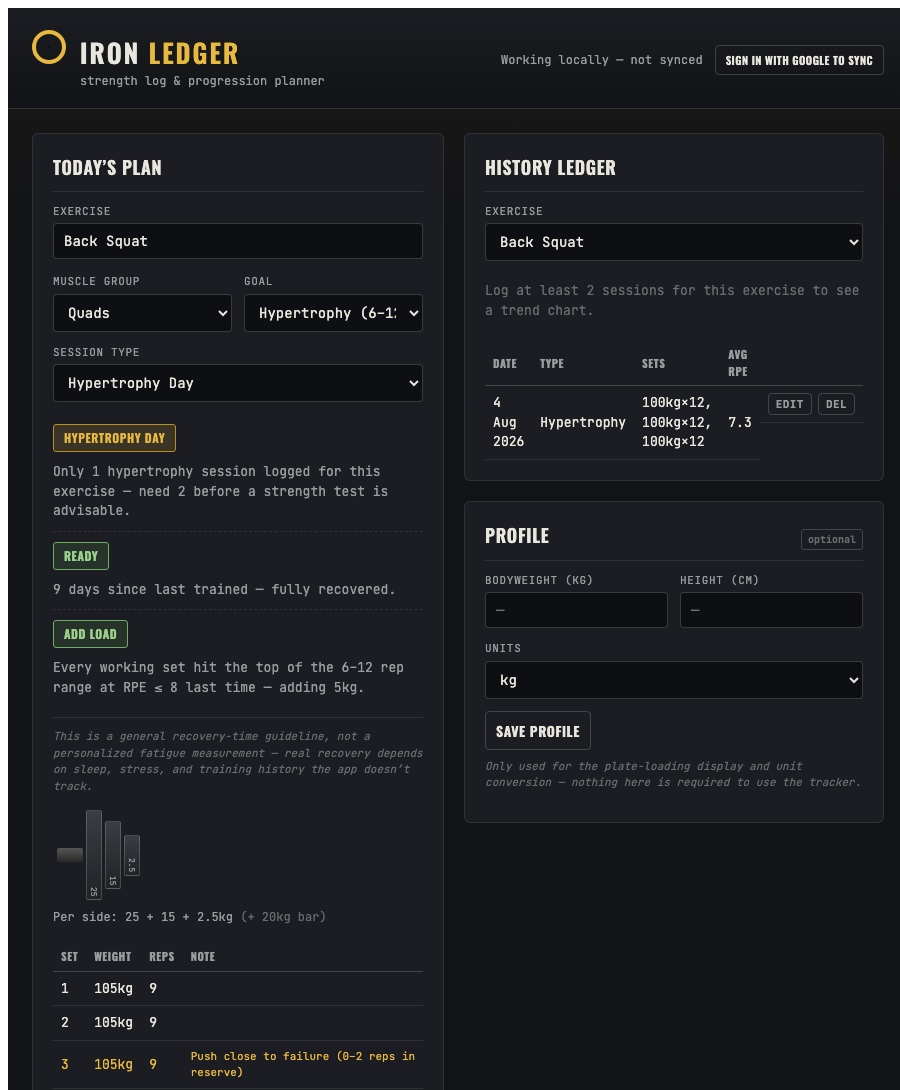
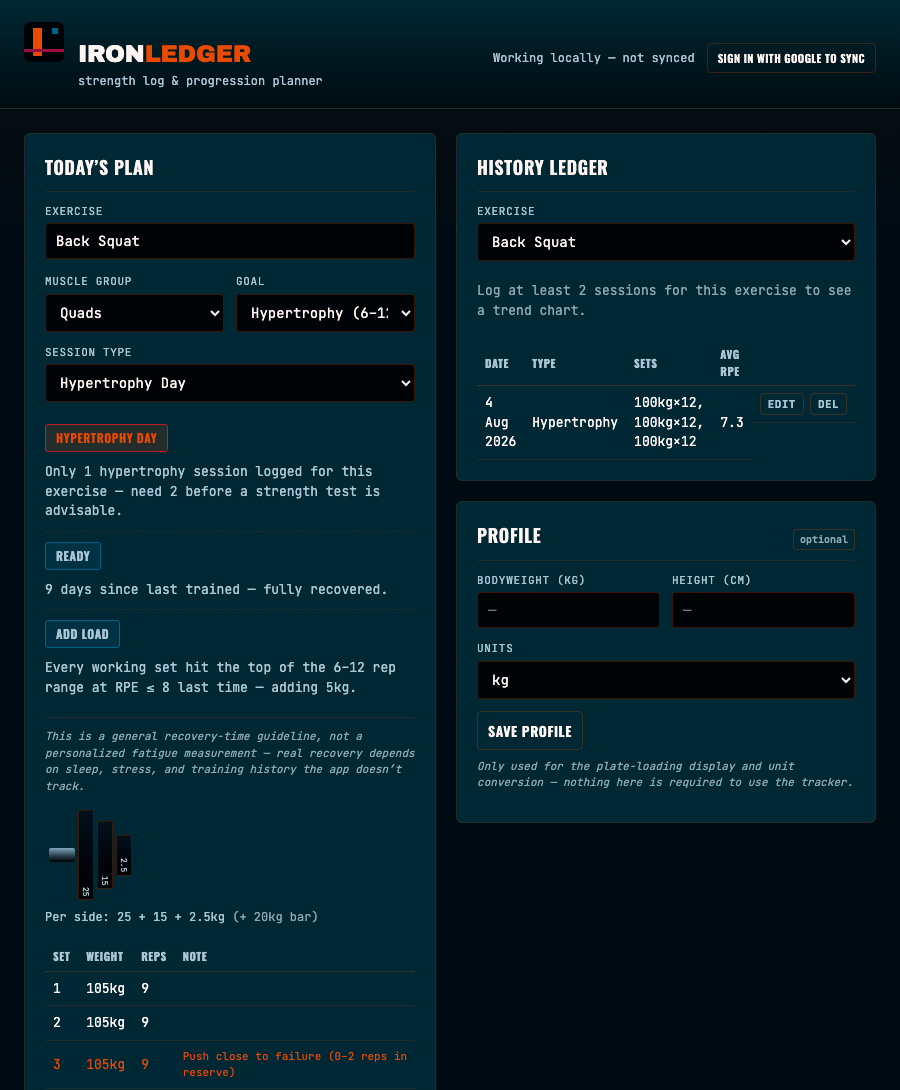
Re-theme to the "MoMA redesign" — teal/orange/maroon palette
Implements the Claude Design mockup (Iron Ledger MoMA redesign,
claude.ai/design/p/bf1d6981-7089-4a48-94f1-14f3a91abd73) — a pure re-skin,
no functional/structural changes:

- Deep teal ground (was near-black graphite), burnt-orange primary accent
  (was calibrated-plate yellow), maroon for warnings/deletes (was muted
  red) — a museum-poster triad via CSS color-mix() throughout.
- New abstract 3-shape logo mark (orange bar / maroon line / teal dot)
  replacing the plate-ring mark; Archivo Black for the "IRONLEDGER"
  wordmark, Oswald kept for section headers.
- Progress charts differentiate by color now: the weight-trend line stays
  orange, volume-load bars switch to teal — visually distinct at a glance
  instead of sharing one accent.
- Plate stack and bar sleeve regain the teal gradient treatment from the
  mockup; the heaviest plate keeps its highlighted ring, now orange/maroon.
- README screenshots regenerated against the new theme.

Every hardcoded color literal from the old palette was swept and replaced
(badges, hover states, gridlines, tooltips) — nothing left half-migrated.
Purely visual: all 109 test assertions pass unchanged.

diff --git a/css/style.css b/css/style.css
@@ -1,29 +1,32 @@
 /* ---------------------------------------------------------------------------
-   IRON LEDGER — design system
-   Industrial gym-logbook aesthetic: dark graphite, chalk-white text, a
-   calibrated-plate yellow accent, muted red for "back off" warnings.
-   Oswald for display/headers, a monospace face for all numeric data.
+   IRON LEDGER — design system ("MoMA" redesign)
+   Deep teal ground, burnt-orange primary accent, maroon for warnings — a
+   museum-poster triad in place of the original graphite/yellow logbook look.
+   Archivo Black for the wordmark, Oswald for section headers, a monospace
+   face for all numeric data.
 --------------------------------------------------------------------------- */
 
-@import url('https://fonts.googleapis.com/css2?family=Oswald:wght@400;500;600;700&family=JetBrains+Mono:wght@400;500;700&display=swap');
+@import url('https://fonts.googleapis.com/css2?family=Archivo+Black&family=Oswald:wght@400;500;600;700&family=JetBrains+Mono:wght@400;500;700&display=swap');
 
 :root {
-  --bg: #121316;
-  --bg-elevated: #1b1d22;
-  --bg-inset: #0e0f12;
-  --border: rgba(233, 230, 221, 0.10);
-  --border-strong: rgba(233, 230, 221, 0.20);
-  --text: #e9e6dd;
-  --text-dim: #9a9c9f;
-  --text-faint: #6b6d70;
-  --accent: #e8b93f;
-  --accent-dim: #b8901f;
-  --accent-text: #1a1400;
-  --warn: #c1443c;
-  --warn-dim: rgba(193, 68, 60, 0.15);
-  --good: #6fae62;
-  --good-dim: rgba(111, 174, 98, 0.15);
+  --bg: color-mix(in oklch, #004759 38%, black);
+  --bg-elevated: color-mix(in oklch, #004759 70%, black);
+  --bg-inset: color-mix(in oklch, #004759 25%, black);
+  --border: rgba(232, 74, 0, 0.14);
+  --border-strong: rgba(232, 74, 0, 0.25);
+  --text: color-mix(in oklch, #E84A00 6%, white);
+  --text-dim: color-mix(in oklch, #006289 35%, white);
+  --text-faint: color-mix(in oklch, #004759 45%, white);
+  --accent: #E84A00;
+  --accent-dim: #BB1D2C;
+  --accent-text: #ffffff;
+  --warn: #9B0C43;
+  --warn-dim: rgba(155, 12, 67, 0.15);
+  --warn-text: color-mix(in oklch, #9B0C43 40%, white);
+  --good: #006289;
+  --good-dim: rgba(0, 98, 137, 0.18);
   --font-display: 'Oswald', 'Arial Narrow', sans-serif;
+  --font-wordmark: 'Archivo Black', sans-serif;
   --font-mono: 'JetBrains Mono', ui-monospace, 'SF Mono', Menlo, Consolas, monospace;
   --radius: 6px;
 }
@@ -43,7 +46,7 @@ html, body {
 body {
   min-height: 100vh;
   background-image:
-    linear-gradient(180deg, rgba(232, 185, 63, 0.04), transparent 240px);
+    linear-gradient(180deg, rgba(232, 74, 0, 0.05), transparent 240px);
 }
 
 h1, h2, h3, .display {
@@ -105,20 +108,27 @@ a { color: var(--accent); }
 .migrate-actions { display: flex; gap: 8px; }
 .migrate-actions button { font-size: 12px; padding: 6px 10px; width: auto; }
 
-.app-header .plate-mark {
-  width: 34px;
-  height: 34px;
-  border-radius: 50%;
-  border: 4px solid var(--accent);
-  background: repeating-radial-gradient(circle, var(--bg-inset) 0 2px, transparent 2px 100%);
+.brand-mark {
+  position: relative;
+  width: 40px;
+  height: 40px;
+  border-radius: 6px;
+  background: var(--bg-inset);
   flex-shrink: 0;
+  overflow: hidden;
 }
 
+.brand-mark .bar { position: absolute; left: 9px; top: 6px; width: 9px; height: 28px; background: var(--accent); }
+.brand-mark .line { position: absolute; left: 0; right: 0; top: 27px; height: 3px; background: var(--warn); }
+.brand-mark .dot { position: absolute; right: 6px; top: 6px; width: 6px; height: 6px; background: var(--good); }
+
 .app-header h1 {
-  font-size: 26px;
+  font-family: var(--font-wordmark);
+  font-weight: 400;
+  font-size: 24px;
   margin: 0;
   color: var(--text);
-  letter-spacing: 0.08em;
+  letter-spacing: -0.01em;
 }
 
 .app-header h1 span { color: var(--accent); }
@@ -259,7 +269,7 @@ button.danger { background: var(--warn); color: var(--text); }
   font-size: 13px;
 }
 
-.suggestion-item:hover, .suggestion-item.active { background: rgba(232, 185, 63, 0.12); }
+.suggestion-item:hover, .suggestion-item.active { background: rgba(232, 74, 0, 0.12); }
 
 .suggestion-item .mg-tag {
   color: var(--text-faint);
@@ -281,15 +291,15 @@ button.danger { background: var(--warn); color: var(--text); }
   margin-bottom: 6px;
 }
 
-.tag-hypertrophy { background: rgba(232, 185, 63, 0.15); color: var(--accent); border: 1px solid var(--accent-dim); }
-.tag-strength { background: var(--warn-dim); color: #e08a83; border: 1px solid var(--warn); }
+.tag-hypertrophy { background: rgba(232, 74, 0, 0.15); color: var(--accent); border: 1px solid var(--accent-dim); }
+.tag-strength { background: var(--warn-dim); color: var(--warn-text); border: 1px solid var(--warn); }
 .tag-new { background: rgba(255,255,255,0.06); color: var(--text-dim); border: 1px solid var(--border-strong); }
-.tag-recovering { background: var(--warn-dim); color: #e08a83; border: 1px solid var(--warn); }
-.tag-optimal { background: var(--good-dim); color: #9bd18d; border: 1px solid var(--good); }
-.tag-ready { background: var(--good-dim); color: #9bd18d; border: 1px solid var(--good); }
+.tag-recovering { background: var(--warn-dim); color: var(--warn-text); border: 1px solid var(--warn); }
+.tag-optimal { background: var(--good-dim); color: var(--text-dim); border: 1px solid var(--good); }
+.tag-ready { background: var(--good-dim); color: var(--text-dim); border: 1px solid var(--good); }
 .tag-layoff { background: rgba(255,255,255,0.06); color: var(--text-dim); border: 1px solid var(--border-strong); }
-.tag-increase { background: var(--good-dim); color: #9bd18d; border: 1px solid var(--good); }
-.tag-decrease { background: var(--warn-dim); color: #e08a83; border: 1px solid var(--warn); }
+.tag-increase { background: var(--good-dim); color: var(--text-dim); border: 1px solid var(--good); }
+.tag-decrease { background: var(--warn-dim); color: var(--warn-text); border: 1px solid var(--warn); }
 .tag-hold, .tag-hold-override { background: rgba(255,255,255,0.06); color: var(--text-dim); border: 1px solid var(--border-strong); }
 .tag-seed { background: rgba(255,255,255,0.06); color: var(--text-dim); border: 1px solid var(--border-strong); }
 
@@ -310,7 +320,7 @@ button.danger { background: var(--warn); color: var(--text); }
 .caveat {
   font-size: 12px;
   color: var(--accent);
-  background: rgba(232, 185, 63, 0.08);
+  background: rgba(232, 74, 0, 0.08);
   border-left: 2px solid var(--accent);
   padding: 8px 10px;
   margin-top: 10px;
@@ -344,7 +354,7 @@ table.ledger-table {
 }
 
 .ledger-table tr.set-amrap td { color: var(--accent); }
-.ledger-table tr.set-backoff td { color: #e08a83; }
+.ledger-table tr.set-backoff td { color: var(--warn); }
 .ledger-table .set-note { font-size: 11px; color: var(--text-dim); font-family: var(--font-mono); }
 
 /* ---------------- Sets grid (log form) ---------------- */
@@ -383,7 +393,7 @@ table.ledger-table {
 .save-row { margin-top: 14px; display: flex; gap: 10px; align-items: center; }
 
 .editing-banner {
-  background: rgba(232, 185, 63, 0.08);
+  background: rgba(232, 74, 0, 0.08);
   border-left: 2px solid var(--accent);
   color: var(--accent);
   font-size: 12px;
@@ -406,14 +416,14 @@ table.ledger-table {
 .bar-sleeve {
   width: 26px;
   height: 14px;
-  background: linear-gradient(180deg, #555, #2a2a2a);
+  background: linear-gradient(180deg, color-mix(in oklch, #006289 55%, white), color-mix(in oklch, #004759 25%, black));
   border-radius: 2px;
   flex-shrink: 0;
 }
 
 .plate {
   width: 16px;
-  background: linear-gradient(180deg, #3a3d43, #202226);
+  background: linear-gradient(180deg, color-mix(in oklch, #006289 35%, black), color-mix(in oklch, #004759 20%, black));
   border: 1px solid var(--border-strong);
   border-radius: 2px;
   display: flex;

diff --git a/js/components/progressChart.js b/js/components/progressChart.js
@@ -6,10 +6,14 @@
 // empty space.
 
 const NS = 'http://www.w3.org/2000/svg';
-const ACCENT = '#e8b93f';
-const GRID = 'rgba(233, 230, 221, 0.10)';
-const TEXT_DIM = '#9a9c9f';
-const SURFACE = '#1b1d22';
+const ACCENT = '#E84A00';
+// The volume bar chart uses the secondary teal rather than the primary
+// orange — differentiates it from the trend line at a glance, matching how
+// the design language elsewhere pairs orange (primary) with teal (info).
+const VOLUME_COLOR = '#006289';
+const GRID = 'rgba(232, 74, 0, 0.14)';
+const TEXT_DIM = 'color-mix(in oklch, #006289 35%, white)';
+const SURFACE = 'color-mix(in oklch, #004759 70%, black)';
 
 const PADDING = { top: 16, right: 16, bottom: 28, left: 44 };
 const WIDTH = 560;
@@ -215,7 +219,7 @@ export function renderVolumeChart(container, points, unit) {
     const x = xFor(i) - barWidth / 2;
     const y = yFor(p.value);
     const h = Math.max(0, baselineY - y);
-    const rect = svgEl('rect', { x, y, width: barWidth, height: h, rx: 4, fill: ACCENT, class: 'chart-bar' });
+    const rect = svgEl('rect', { x, y, width: barWidth, height: h, rx: 4, fill: VOLUME_COLOR, class: 'chart-bar' });
     svg.appendChild(rect);
     bars.push({ el: rect, point: p });
   });

diff --git a/index.html b/index.html
@@ -8,9 +8,9 @@
 </head>
 <body>
   <header class="app-header">
-    <div class="plate-mark"></div>
+    <div class="brand-mark"><div class="bar"></div><div class="line"></div><div class="dot"></div></div>
     <div>
-      <h1>IRON <span>LEDGER</span></h1>
+      <h1>IRON<span>LEDGER</span></h1>
       <div class="tagline">strength log &amp; progression planner</div>
     </div>
     <div class="auth-bar" id="auth-bar">
